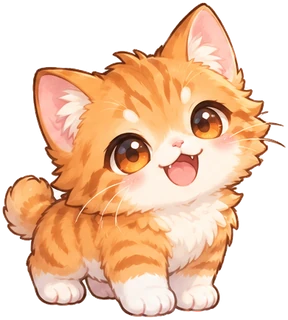
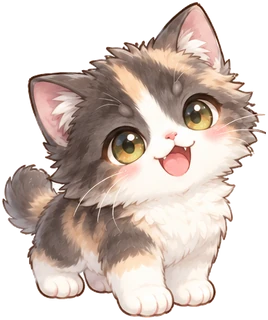
pet-guard: 天赋去掉平凡、闪光变成最高档（200次保底）；猫换成三花猫新图
- 天赋觉醒概率：出色40% 卓越35% 非凡18% 传奇5% 神话1.5% 闪光0.5%（×3.4，带闪光特效）
- 连续200次没出闪光必出闪光；闪光之后再出闪光升星；去掉原来单独的1.2%闪光抽取和×1.1
- 没觉醒过显示「未觉醒」×1；旧存档自动换新规则（旧神话2★以上→闪光，旧闪光萌宠→闪光档）
- 猫换成用户给的三花猫三阶段图，去掉旧橘猫的成年序列帧；导入工具加 cutX 修正（粘在一起的角色按列切开）

Claude-Session: https://claude.ai/code/session_011ha1JVmkv38irfqamNDMVV

diff --git a/pet-guard/src/hud.js b/pet-guard/src/hud.js
@@ -345,14 +345,14 @@ const PAGES = [
     });
   } },
   { id: 'gift', title: '礼物', draw(r, x, l, t, w) {
-    const rows = [['小心心', '投喂零食：经验+50%、亲密+2'], ['鲜花', '种花回血 + 叫来小伙伴、放大招'], ['加油鸭', '天赋觉醒：洗天赋，有机会闪光'], ['爱你哟', '爱心派对：全队攻击+30%、爱心雨'], ['墨镜', '酷酷墨镜：戴墨镜、攻击+30%'], ['礼花筒', '庆典：装备掉落×2 十分钟'], ['跑车', '梦幻甜品车：全场吃甜点、梦幻装扮'], ['任意礼物', '自动守护：每1抖币12秒']];
+    const rows = [['小心心', '投喂零食：经验+50%、亲密+2'], ['鲜花', '种花回血 + 叫来小伙伴、放大招'], ['加油鸭', '天赋觉醒：洗天赋，最高「闪光」'], ['爱你哟', '爱心派对：全队攻击+30%、爱心雨'], ['墨镜', '酷酷墨镜：戴墨镜、攻击+30%'], ['礼花筒', '庆典：装备掉落×2 十分钟'], ['跑车', '梦幻甜品车：全场吃甜点、梦幻装扮'], ['任意礼物', '自动守护：每1抖币12秒']];
     rows.forEach(([a, b], i) => { const y = t + 18 + i * 26; text(x, a, l + 14, y, 13, C.pink); text(x, b, l + 86, y, 13, C.ink, 'left', 'normal'); });
   } },
   { id: 'grow', title: '养成', draw(r, x, l, t, w) {
     text(x, `长大：幼崽 → Lv${FORMS[1].lv} 少年 → Lv${FORMS[2].lv} 成年`, l + 14, t + 18, 13, C.ink, 'left', 'normal');
     text(x, '天赋（加油鸭觉醒，取最好）：', l + 14, t + 46, 13, C.ink, 'left', 'normal');
-    TALENT.tiers.forEach((tt, i) => { text(x, `${tt.name}×${tt.mul}`, l + 14 + (i % 3) * 108, t + 70 + Math.floor(i / 3) * 22, 13, tt.color === '#e8edf5' ? '#8a8a9a' : tt.color); });
-    text(x, '神话之后还能升星 · 觉醒有机会变「闪光」异色', l + 14, t + 128, 12, C.mute, 'left', 'normal');
+    TALENT.tiers.filter(tt => tt.w > 0).forEach((tt, i) => { text(x, `${tt.name}×${tt.mul} ${tt.w}%`, l + 14 + (i % 3) * 108, t + 70 + Math.floor(i / 3) * 22, 13, tt.color); });
+    text(x, `最高「闪光」带闪光特效，${TALENT.pity}次保底 · 再出闪光还能升星`, l + 14, t + 128, 12, C.mute, 'left', 'normal');
     text(x, '亲密度：摸摸、投喂涨，每一级全属性+2%', l + 14, t + 154, 13, C.ink, 'left', 'normal');
     text(x, '小精灵：净化坏心情有机会收服，图鉴每种+1%', l + 14, t + 180, 13, C.ink, 'left', 'normal');
   } },
@@ -560,7 +560,7 @@ function drawCards(r, x, dt) {
   panel(x, l, t, w, h, 0.98);
   const form = FORMS.findLastIndex(fm => (f.level || 1) >= fm.lv);
   x.fillStyle = '#fff0f5'; rr(x, l + 10, t + 10, 120, 150, 12); x.fill();
-  const tal = f.star > 0 ? 5 : f.talent || 0;
+  const tal = f.star > 0 ? TALENT.tiers.length - 1 : f.talent || 0;
   if (tal >= 3) { x.save(); x.globalAlpha *= 0.45; x.fillStyle = TALENT.tiers[tal].color; x.beginPath(); x.arc(l + 70, t + 92, 52, 0, TAU); x.fill(); x.restore(); }
   const pa = r.assets.get(`pet:${f.sp}:${form}`);
   if (f.shiny) shinyIconBack(r, x, l + 70, t + 98, 110);
@@ -650,7 +650,7 @@ function drawPopups(r, x, dt) {
   if (ga) { x.save(); x.globalCompositeOperation = 'lighter'; x.globalAlpha *= 0.8; x.translate(cx, cy + 70); x.rotate(p.t * 0.8); x.scale(1, 0.5); const s2 = 300 / Math.max(ga.w, ga.h); x.drawImage(ga.img, -ga.w * s2 / 2, -ga.h * s2 / 2, ga.w * s2, ga.h * s2); x.restore(); }
   if (p.kind === 'awaken') {
     const T = TALENT.tiers, roll = p.t < 1.6;
-    const shown = roll ? Math.floor(p.t * 14) % T.length : p.best;
+    const shown = roll ? 1 + Math.floor(p.t * 14) % (T.length - 1) : p.best;
     const col = T[shown].color;
     x.save(); x.translate(cx, cy); x.globalCompositeOperation = 'lighter';
     for (let i = 0; i < 12; i++) { x.rotate(TAU / 12 + dt * 0); x.fillStyle = col; x.globalAlpha = a * 0.18; x.beginPath(); x.moveTo(0, 0); x.lineTo(-18, -230); x.lineTo(18, -230); x.closePath(); x.fill(); }
@@ -663,7 +663,7 @@ function drawPopups(r, x, dt) {
     if (!roll) {
       text(x, p.up ? `全属性 ×${p.mulFrom} → ×${p.mulTo}` : `这次是${T[p.best].name}，没超过现在的，下次一定！`, cx, cy + 136, 16, '#fff', 'center');
       if (p.shinyNew) outlined(x, '✦ 闪光了！✦', cx, cy + 172, 30, '#ffe36b', '#8a4a00', 'center', ROUND_FONT, 7);
-      else if (p.pity > 0) text(x, `离保底神话还差 ${TALENT.pity - p.pity} 次`, cx, cy + 166, 13, '#fff', 'center', 'normal');
+      else if (p.pity > 0) text(x, `离保底闪光还差 ${TALENT.pity - p.pity} 次`, cx, cy + 166, 13, '#fff', 'center', 'normal');
     }
   }
   x.restore();

diff --git a/pet-guard/src/config.js b/pet-guard/src/config.js
@@ -69,13 +69,13 @@ export const PET = {
 
 // ───────── 八种萌宠 ─────────
 // role：front 前排、melee 近战、ranged 远程、back 后排治疗
-// 数值是 1 级、无装备、天赋「平凡」时的基础值
+// 数值是 1 级、无装备、还没觉醒天赋时的基础值
 export const SPECIES = {
   shiba:   { name: '柴柴', kind: '柴犬', color: '#f2a33a', role: 'front',  hp: 340, atk: 8,    armor: 0.35, interval: 0.95, range: 0,   food: 'bone',
     skill: { name: '汪汪吼', cd: 9 }, ult: { name: '超级抱抱' }, words: ['柴犬', '柴柴', '狗', '小狗', '狗狗', '修勾', '汪汪'],
     desc: '前排守护：汪汪吼把坏心情都吸过来、给自己加护盾；超级抱抱全队减伤、把身边一圈都抱晕', passive: '皮实：受到伤害降低' },
-  cat:     { name: '橘子', kind: '橘猫', color: '#ff9b4a', role: 'melee',  hp: 200, atk: 12.5, armor: 0.15, interval: 0.82, range: 0,   food: 'fish', crit: 0.15, critDmg: 0.3,
-    skill: { name: '猫猫连环拳', cd: 9 }, ult: { name: '九命猫猫拳' }, words: ['猫', '猫猫', '橘猫', '橘子', '喵', '小猫', '咪咪'],
+  cat:     { name: '橘子', kind: '三花猫', color: '#ff9b4a', role: 'melee',  hp: 200, atk: 12.5, armor: 0.15, interval: 0.82, range: 0,   food: 'fish', crit: 0.15, critDmg: 0.3,
+    skill: { name: '猫猫连环拳', cd: 9 }, ult: { name: '九命猫猫拳' }, words: ['猫', '猫猫', '三花', '三花猫', '橘猫', '橘子', '喵', '小猫', '咪咪'],
     desc: '近战连击：专挑精英和首领；连环拳冲进去一顿乱挠；九命猫猫拳满场飞扑', passive: '猫猫拳：暴击伤害提升' },
   bunny:   { name: '棉花', kind: '小白兔', color: '#ff9fc4', role: 'back',  hp: 145, atk: 7,    armor: 0.1,  interval: 1.0,  range: 400, food: 'carrot', heal: 1,
     skill: { name: '胡萝卜便当', cd: 8 }, ult: { name: '棉花糖雨' }, words: ['兔', '兔子', '小兔', '白兔', '棉花', '兔兔', '小白兔'],
@@ -140,19 +140,20 @@ export const PASSIVE = {
 };
 
 // ───────── 天赋（礼物「加油鸭」觉醒一次，随机一档、取最好）：每只萌宠各自的天赋，全属性倍率 ─────────
+// w 是每次觉醒抽到这一档的概率（%）。最高档「闪光」：萌宠身上带闪光特效（原图不改色，见 src/render.js 的 shinyBack / shinyFront）
 export const TALENT = {
   tiers: [
-    { name: '平凡', mul: 1,   w: 40,  color: '#e8edf5' },
-    { name: '出色', mul: 1.4, w: 35,  color: '#4fa3ff' },
-    { name: '卓越', mul: 1.8, w: 18,  color: '#b066ff' },
-    { name: '非凡', mul: 2.2, w: 5,   color: '#ff8a2a' },
-    { name: '传奇', mul: 2.6, w: 1.5, color: '#ffd23a' },
-    { name: '神话', mul: 3,   w: 0.5, color: '#ff4f9a' },
+    { name: '未觉醒', mul: 1,   w: 0,   color: '#e8edf5' },   // 还没觉醒过；觉醒抽不到这一档
+    { name: '出色',   mul: 1.4, w: 40,  color: '#4fa3ff' },
+    { name: '卓越',   mul: 1.8, w: 35,  color: '#b066ff' },
+    { name: '非凡',   mul: 2.2, w: 18,  color: '#ff8a2a' },
+    { name: '传奇',   mul: 2.6, w: 5,   color: '#ffd23a' },
+    { name: '神话',   mul: 3,   w: 1.5, color: '#ff4f9a' },
+    { name: '闪光',   mul: 3.4, w: 0.5, color: '#29c5f6' },
   ],
-  maxPerGift: 99, pity: 200,
-  star: { base: 2, subK: 0.5 },   // 神话之后升星：N★ = ×(N+2)，两星之间最好那一档记「副天赋」
-  // 闪光：每次觉醒有一点机会变成异色闪光萌宠（永久，全属性 ×1.1，画面上换色 + 一直闪星星）
-  shiny: { chance: 0.012, pity: 150, mul: 1.1 },   // 闪光不换颜色，只加特效（src/render.js 的 shinyBack / shinyFront）
+  maxPerGift: 99,
+  pity: 200,                      // 连续 200 次没出闪光，第 200 次必出闪光
+  star: { step: 1, subK: 0.5 },   // 闪光之后再出闪光升星：每多一星全属性倍率 +1；两星之间最好那一档记「副天赋」
 };
 
 // ───────── 亲密度：摸摸、投喂涨；每过一档全属性 +2% ─────────

diff --git a/pet-guard/tests/game.test.js b/pet-guard/tests/game.test.js
@@ -3,7 +3,7 @@ import assert from 'node:assert/strict';
 import { Game, parseCommand } from '../src/game.js';
 import { Save, cleanNick } from '../src/save.js';
 import { parseSpecies, parseSkill } from '../src/pets.js';
-import { applyItem, makeItem, talentMul, petStats, combatPower } from '../src/gear.js';
+import { applyItem, makeItem, talentMul, petStats, combatPower, rollTalent, starOf } from '../src/gear.js';
 import { awaken } from '../src/gifts.js';
 import { giftKind } from '../src/gifts.js';
 import { TALENT, FORMS, TREE } from '../src/config.js';
@@ -77,17 +77,36 @@ test('长大：跨过等级门槛发「长大」事件', () => {
   assert.equal(f.h, FORMS[1].h);
 });
 
-test('天赋觉醒：取最好、200次保底神话、闪光保底', () => {
+test('天赋觉醒：没有平凡、取最好、200次保底闪光（最高档，带闪光特效）', () => {
   const { g, save } = setup(3);
   g.chat({ id: 'u4', name: '土豪' }, '羊');
   const f = g.pets.get('u4');
-  const r = awaken(g, f, 199);
+  const top = TALENT.tiers.length - 1;
+  assert.equal(TALENT.tiers[top].name, '闪光');
+  assert.equal(Math.round(TALENT.tiers.reduce((a, t) => a + t.w, 0) * 10) / 10, 100, '概率加起来 100%');
+  const r1 = awaken(g, f, 1);
+  assert.ok(r1.rolls[0] >= 1, '觉醒一次至少出色');
   const d = save.data.players.u4.pets.sheep;
-  assert.ok(d.talent >= Math.max(...r.rolls.filter(x => x < 5)) || d.talent === 5);
-  assert.ok(d.shiny, `150次内必闪光（shinyPity=${d.shinyPity}）`);
-  if (d.talent < 5) { awaken(g, f, 1); assert.ok(d.talent === 5 || d.star >= 1); }
-  assert.ok(talentMul(d) >= 1);
+  if (d.talent < top) { awaken(g, f, 198); assert.ok(d.talent === top, `200次内必出闪光（${d.talent}）`); }
+  assert.ok(d.shiny && f.shiny, '闪光档带闪光特效');
+  assert.equal(talentMul(d), TALENT.tiers[top].mul + (starOf(d) - 1) * TALENT.star.step + (d.sub ? (TALENT.tiers[d.sub].mul - 1) * TALENT.star.subK : 0));
   assert.ok(petStats(f).maxHp > 340);
+  // 1万次觉醒的分布接近配置
+  let s2 = 7; const rnd = () => ((s2 = (s2 * 1664525 + 1013904223) >>> 0) / 4294967296);
+  const cnt = TALENT.tiers.map(() => 0); for (let i = 0; i < 20000; i++) cnt[rollTalent(rnd)]++;
+  assert.equal(cnt[0], 0, '抽不到未觉醒');
+  assert.ok(Math.abs(cnt[1] / 200 - 40) < 2 && Math.abs(cnt[top] / 200 - 0.5) < 0.3, cnt.join(','));
+});
+
+test('旧存档天赋换成新规则：旧神话2★→闪光1★、旧闪光萌宠→闪光档', () => {
+  const old = { version: 1, players: { o1: { name: '老玩家', pets: {
+    shiba: { lv: 30, talent: 5, star: 3 }, cat: { lv: 10, talent: 2, shiny: true }, bunny: { lv: 5, talent: 5, star: 1 }, panda: { lv: 5, talent: 0 } } } } };
+  const v = Save.validate(old).players.o1.pets;
+  assert.deepEqual([v.shiba.talent, v.shiba.star, v.shiba.shiny], [6, 2, true]);
+  assert.deepEqual([v.cat.talent, v.cat.shiny], [6, true]);
+  assert.deepEqual([v.bunny.talent, v.bunny.star, v.bunny.shiny], [5, 0, false]);
+  assert.equal(v.panda.talent, 0);
+  assert.equal(Save.validate({ version: 1, players: { o1: { name: 'x', pets: v } } }).players.o1.pets.shiba.star, 2, '新存档再读不会再变');
 });
 
 test('装备：更高品质穿上、同品质强化、低品质变碎片', () => {

diff --git a/pet-guard/src/gear.js b/pet-guard/src/gear.js
@@ -80,12 +80,12 @@ export function talentMul(o) {
   const st = starOf(o);
   if (!st) return tierMul(o?.talent);
   const sub = o.sub | 0;
-  return Math.round((st + TALENT.star.base + (sub > 0 ? (tierMul(sub) - 1) * TALENT.star.subK : 0)) * 100) / 100;
+  return Math.round((tierMul(TALENT.tiers.length - 1) + (st - 1) * TALENT.star.step + (sub > 0 ? (tierMul(sub) - 1) * TALENT.star.subK : 0)) * 100) / 100;
 }
 export function talentParts(o) {
   const T = TALENT.tiers, st = starOf(o), sub = o?.sub | 0, t = Math.max(0, Math.min(T.length - 1, o?.talent | 0));
-  if (!st) return [{ text: T[t].name, color: T[t].color }];
-  const out = [{ text: `${T[T.length - 1].name}${st}★`, color: T[T.length - 1].color }];
+  if (!st) return [{ text: T[t].name, color: t === 0 ? '#a3abb8' : T[t].color }];   // 未觉醒的浅灰太淡，文字用深一点的灰
+  const out = [{ text: st > 1 ? `${T[T.length - 1].name}${st}★` : T[T.length - 1].name, color: T[T.length - 1].color }];
   if (sub > 0) out.push({ text: `·副:${T[sub].name}`, color: T[sub].color });
   return out;
 }
@@ -93,11 +93,11 @@ export function talentText(o) { return talentParts(o).map(p => p.text).join('');
 export function rollTalent(random) {
   const T = TALENT.tiers, total = T.reduce((a, t) => a + t.w, 0);
   let r = random() * total;
-  for (let i = 0; i < T.length; i++) { r -= T[i].w; if (r <= 0) return i; }
-  return 0;
+  for (let i = 0; i < T.length; i++) { if (!T[i].w) continue; r -= T[i].w; if (r <= 0) return i; }
+  return T.findIndex(t => t.w > 0);
 }
-// 天赋档位 1–6（被动用）；神话星级再往上加
-export function talentLevel(o) { return Math.min(6, (o?.talent | 0) + 1) + starOf(o) * 0.5; }
+// 天赋档位 1–7（被动用）；闪光升星再往上加
+export function talentLevel(o) { return Math.min(TALENT.tiers.length, (o?.talent | 0) + 1) + starOf(o) * 0.5; }
 
 // ───────── 亲密度 ─────────
 export function bondLevel(bond) { let n = 0; for (const s of BOND.steps) if ((bond || 0) >= s) n++; return n; }
@@ -109,7 +109,7 @@ export function petStats(f) {
   const gear = f.gear || {};
   const g = gearBonus(gear), cap = GEAR.caps;
   const lvMul = 1 + LEVEL.grow * Math.max(0, (f.level || 1) - 1);
-  const tm = talentMul(f) * (f.shiny ? TALENT.shiny.mul : 1) * (1 + BOND.per * bondLevel(f.bond));
+  const tm = talentMul(f) * (1 + BOND.per * bondLevel(f.bond));
   const sk = SPRITES.perKind * (f.spriteKinds || 0), SF = SPRITES.follow[f.follow] || {};   // 小精灵：图鉴每种+1%，跟着的那只另加
   const tl = talentLevel(f), P = PASSIVE[f.sp] || {};
   const set = setBonus(gear);
@@ -133,9 +133,9 @@ export function petStats(f) {
     hatTier: gear.hat ? gear.hat.tier : -1,
   };
 }
-// 战力：等级 + 装备 + 天赋 + 闪光 + 亲密
+// 战力：等级 + 装备 + 天赋 + 亲密
 export function combatPower(f) {
-  return Math.round(((f.level || 1) * 50 + setScore(f.gear) * 120) * talentMul(f) * (f.shiny ? TALENT.shiny.mul : 1) * (1 + BOND.per * bondLevel(f.bond)));
+  return Math.round(((f.level || 1) * 50 + setScore(f.gear) * 120) * talentMul(f) * (1 + BOND.per * bondLevel(f.bond)));
 }
 // 成长分 E：等级 + 装备（临时BUFF不算）
 export function growthE(f) {

diff --git a/pet-guard/src/save.js b/pet-guard/src/save.js
@@ -14,7 +14,7 @@ export function weekKeyOf(ms) {
 export function dayKeyOf(ms) { const d = new Date(ms); return `${d.getFullYear()}-${String(d.getMonth() + 1).padStart(2, '0')}-${String(d.getDate()).padStart(2, '0')}`; }
 
 export function newPet(level = 1) {
-  return { lv: Math.max(1, level | 0), xp: 0, nick: '', talent: 0, talentPity: 0, star: 0, sub: 0, shiny: false, shinyPity: 0, gear: {}, bond: 0 };
+  return { lv: Math.max(1, level | 0), xp: 0, nick: '', talent: 0, talentPity: 0, star: 0, sub: 0, shiny: false, tv: 2, gear: {}, bond: 0 };
 }
 export function newProfile(uid, clearNo = 0) {
   return { uid, name: '小可爱', avatar: '', cur: null, pets: {}, merit: 0, weekMerit: 0, coins: 0, weekCoins: 0, games: 0, clears: 0, seen: 0,
@@ -30,6 +30,16 @@ export function petData(p, sp) {
   return all[sp];
 }
 
+// 旧存档的天赋换成新规则（没有 tv 标记的是旧的）：
+// 旧：平凡/出色/卓越/非凡/传奇/神话，神话之后升星，闪光是另外 1.2% 抽的；新：最高档是「闪光」，闪光之后升星
+// 旧神话2★及以上 → 闪光（星数-1）；旧的闪光萌宠 → 闪光档；旧神话1★ → 神话
+function migrateTalent(d) {
+  const top = TALENT.tiers.length - 1;
+  if ((d.tv | 0) >= 2) { const t = clampInt(d.talent, 0, top, 0); return { talent: t, star: t === top ? clampInt(d.star, 0, 1e6, 0) : 0, shiny: t === top || !!d.shiny }; }
+  const t = clampInt(d.talent, 0, 5, 0), s = clampInt(d.star, 0, 1e6, 0);
+  if (d.shiny || (t === 5 && s >= 2)) return { talent: top, star: t === 5 && s >= 2 ? s - 1 : 0, shiny: true };
+  return { talent: t, star: 0, shiny: false };
+}
 export class Save {
   constructor({ storage = null, now = () => Date.now() } = {}) {
     this.storage = storage;
@@ -57,11 +67,12 @@ export class Save {
       for (const sp of SPECIES_IDS) {
         const d = p.pets?.[sp];
         if (!d || typeof d !== 'object') continue;
+        const tl = migrateTalent(d);
         pets[sp] = {
           lv: clampInt(d.lv, 1, 1e6, 1), xp: clampInt(d.xp, 0, 1e12, 0), nick: cleanNick(d.nick),
-          talent: clampInt(d.talent, 0, TALENT.tiers.length - 1, 0), talentPity: clampInt(d.talentPity, 0, 1e6, 0),
-          star: clampInt(d.star, 0, 1e6, 0), sub: clampInt(d.sub, 0, TALENT.tiers.length - 2, 0),
-          shiny: !!d.shiny, shinyPity: clampInt(d.shinyPity, 0, 1e6, 0), gear: validGear(d.gear), bond: clampInt(d.bond, 0, 1e9, 0),
+          talent: tl.talent, talentPity: clampInt(d.talentPity, 0, 1e6, 0),
+          star: tl.star, sub: clampInt(d.sub, 0, TALENT.tiers.length - 2, 0),
+          shiny: tl.shiny, tv: 2, gear: validGear(d.gear), bond: clampInt(d.bond, 0, 1e9, 0),
         };
       }
       players[uid] = {

diff --git a/pet-guard/src/gifts.js b/pet-guard/src/gifts.js
@@ -97,10 +97,10 @@ export function applyGift(game, f, kind, amount) {
   saveBuffs(game, f);
 }
 
-// ───────── 天赋觉醒：重洗当前萌宠的天赋，随机出一档，取最好；有机会变闪光 ─────────
+// ───────── 天赋觉醒：重洗当前萌宠的天赋，随机出一档，取最好；最高档「闪光」（200 次保底）─────────
 export function awaken(game, f, times = 1) {
   const T = TALENT.tiers, top = T.length - 1;
-  const d = petRecord(game, f) || (f.talentMem ||= { talent: f.talent || 0, talentPity: 0, star: f.star || 0, sub: f.sub || 0, shiny: !!f.shiny, shinyPity: 0 });
+  const d = petRecord(game, f) || (f.talentMem ||= { talent: f.talent || 0, talentPity: 0, star: f.star || 0, sub: f.sub || 0, shiny: !!f.shiny });
   const from = d.talent || 0, fromStar = starOf(d), fromSub = fromStar ? d.sub || 0 : 0, mulFrom = talentMul(d);
   let star = fromStar, sub = fromSub, tal = from, pityHit = false, shinyNew = false;
   const rolls = [];
@@ -113,11 +113,8 @@ export function awaken(game, f, times = 1) {
     if (r === top) { if (tal === top) star++; else star = Math.max(star, 1); tal = top; sub = 0; }
     else if (tal === top) { if (r > sub) sub = r; }
     else if (r > tal) tal = r;
-    if (!d.shiny) {
-      d.shinyPity = (d.shinyPity || 0) + 1;
-      if (game.random() < TALENT.shiny.chance || d.shinyPity >= TALENT.shiny.pity) { d.shiny = true; shinyNew = true; }
-    }
   }
+  if (tal === top && !d.shiny) { d.shiny = true; shinyNew = true; }
   const best = Math.max(...rolls);
   d.talent = tal; d.star = star; d.sub = sub;
   f.talent = tal; f.star = star; f.sub = sub; f.shiny = !!d.shiny;
@@ -125,7 +122,7 @@ export function awaken(game, f, times = 1) {
   refreshStats(f);
   const mulTo = talentMul(d);
   game.emit('awaken', { uid: f.uid, name: f.name, nick: f.nick, sp: f.sp, from, to: tal, best, rolls, up: mulTo > mulFrom, fromStar, star, fromSub, sub, mulFrom, mulTo, pityHit, pity: d.talentPity || 0, shinyNew, shiny: f.shiny, level: f.level });
-  if (shinyNew) game.emit('banner', { uid: f.uid, name: f.name, text: `✦ 闪光了！${who(f)}变成了异色闪光萌宠，全属性×1.1 ✦`, tier: 5 });
+  if (shinyNew) game.emit('banner', { uid: f.uid, name: f.name, text: `✦ 闪光了！${who(f)}觉醒出最高天赋「闪光」，全属性×${T[top].mul} ✦`, tier: 5 });
   return { from, to: tal, rolls, star, sub, shinyNew };
 }
 

diff --git a/pet-guard/src/render.js b/pet-guard/src/render.js
@@ -446,7 +446,7 @@ export class Renderer {
     let ox = 0, oy = 0, sx = 1, sy = 1, rot = 0, alpha = 1;
     const a = f.act;
     // 光环（天赋）
-    const tal = f.star > 0 ? 5 : f.talent || 0;
+    const tal = f.star > 0 ? TALENT.tiers.length - 1 : f.talent || 0;
     if (!f.egg && tal >= 3 && !f.mini) this.aura(x, f, tal, t);
     if (f.shiny && !f.egg && f.alive) this.shinyBack(x, f, t, h);
     if (f.auto > 0 && !f.npc) { x.save(); x.globalAlpha = 0.5 + 0.2 * Math.sin(t * 4); x.strokeStyle = '#ff9fd0'; x.lineWidth = 2; x.beginPath(); x.ellipse(f.x, f.y, h * 0.42, h * 0.14, 0, 0, TAU); x.stroke(); x.restore(); }
@@ -564,7 +564,7 @@ export class Renderer {
     return true;
   }
   aura(x, f, tal, t) {
-    const c = TALENT.tiers[Math.min(5, tal)].color, h = f.h || 66, st = Math.min(5, f.star || 0);
+    const c = TALENT.tiers[Math.min(TALENT.tiers.length - 1, tal)].color, h = f.h || 66, st = Math.min(5, f.star || 0);
     x.save();
     x.globalCompositeOperation = 'lighter';
     x.globalAlpha = 0.35 + 0.15 * Math.sin(t * 3);
@@ -759,14 +759,14 @@ export class Renderer {
       if (home && g.homeTiles?.includes(f.uid)) continue;   // 在家：名字写在菜地上
       const h = (f.egg ? 52 : f.h || 66) * (home ? 0.78 : 1), top = f.y - h - 8;
       const nm = f.nick || f.name, focus = this.hoverUid === f.uid || (f.labelUntil || 0) > g.clock;
-      const tal = f.star > 0 ? 5 : f.talent || 0;
+      const tal = f.star > 0 ? TALENT.tiers.length - 1 : f.talent || 0;
       x.font = `bold 13px ${FONT}`;
       const lv = `Lv${f.level || 1}`, lw = x.measureText(lv).width + 8;
       x.font = `bold 14px ${FONT}`;
       const nw = Math.min(110, x.measureText(nm).width);
       const total = lw + 4 + nw, left = f.x - total / 2;
       // 等级小胶囊
-      x.fillStyle = f.npc ? 'rgba(120,120,140,.8)' : TALENT.tiers[Math.min(5, tal)].color; rr(x, left, top - 13, lw, 16, 8); x.fill();
+      x.fillStyle = f.npc ? 'rgba(120,120,140,.8)' : TALENT.tiers[Math.min(TALENT.tiers.length - 1, tal)].color; rr(x, left, top - 13, lw, 16, 8); x.fill();
       x.fillStyle = tal >= 1 && tal <= 4 && !f.npc ? '#fff' : '#4a3540'; x.font = `bold 12px ${FONT}`; x.fillText(lv, left + lw / 2, top);
       x.font = `bold 14px ${FONT}`; x.strokeStyle = 'rgba(70,40,50,.85)'; x.lineWidth = 4; x.fillStyle = f.npc ? '#d6d6e0' : f.shiny ? '#ffe36b' : '#fff';
       x.textAlign = 'left';

diff --git a/pet-guard/tools/import_art.py b/pet-guard/tools/import_art.py
@@ -7,7 +7,8 @@
 原图按清单里的文件名命名（pet_shiba.png、foe_dust.jpg、bg_spring.png……；GPT 下载下来的名字后面多了
 「(1)」之类也认）。art/fix.json 可以给单张图加修正：
   { "pet_shiba": { "flip": true, "bgTol": 30, "order": [2,1,0] } }
-  flip：左右翻转（萌宠要朝右）；bgTol：白底容差（有灰色地面阴影就调大）；order：切出来的顺序重排
+  flip：左右翻转（萌宠要朝右）；bgTol：白底容差（有灰色地面阴影就调大）；order：切出来的顺序重排；
+  cutX：[389] 两个角色粘在一起时，在原图这一列（像素）切开
 """
 import json, os, re, sys, shutil, argparse
 import numpy as np
@@ -230,6 +231,7 @@ def process(path, fid, spec, fix, manifest, preview):
     else:
         rgb = np.asarray(im.convert('RGB'))
         rgba, mask = (matte_black(rgb) if spec['bg'] == 'black' else matte_white(rgb, fix.get('bgTol', 8), fix.get('holes', 0)))
+    for cx in fix.get('cutX', []): mask[:, max(0, cx - 2):cx + 3] = False   # 两个角色粘在一起（胡子、尾巴碰到了）：在这一列切开
     src = Image.fromarray(rgba, 'RGBA')
     if fix.get('flipAll'): src = src.transpose(Image.FLIP_LEFT_RIGHT); mask = mask[:, ::-1]
     rows, cols = spec['grid']

diff --git a/pet-guard/README.md b/pet-guard/README.md
@@ -91,7 +91,7 @@
 | 萌宠 | 定位 | 普攻 | 技能（自动） | 大招（发「大招」） |
 |---|---|---|---|---|
 | 柴柴 · 柴犬 | 前排守护 | 爪爪拍 | 汪汪吼：把身边坏心情都吸过来、给自己加护盾 | 超级抱抱：全队减伤30%，身边一圈抱晕 |
-| 橘子 · 橘猫 | 近战连击 | 猫猫拳，专挑精英首领 | 猫猫连环拳：冲进去一顿乱挠 | 九命猫猫拳：满场飞扑六下 + 终结一击 |
+| 橘子 · 三花猫 | 近战连击 | 猫猫拳，专挑精英首领 | 猫猫连环拳：冲进去一顿乱挠 | 九命猫猫拳：满场飞扑六下 + 终结一击 |
 | 棉花 · 小白兔 | 治疗 | 爱心弹，能打能奶 | 胡萝卜便当：给最累的三只回血 + 持续回血 | 棉花糖雨：叫醒所有打盹的伙伴、全队回血 |
 | 滚滚 · 熊猫 | 前排控场 | 熊掌拍，击退 | 翻滚冲撞：滚过去一路撞晕 | 竹林结界：坏心情走不动、伙伴受伤减少 |
 | 狐狐 · 小狐狸 | 远程法术 | 狐火，穿透、灼烧 | 狐火连珠：扇形五发 | 九尾狐火：敌群里烧一大片 |
@@ -111,8 +111,15 @@
 ## 养成
 
 - **长大**：幼崽 → Lv8 少年 → Lv20 成年，换形态时萌宠就地发光、变大一下，顶部横幅播报（不弹窗挡战场）。等级不封顶，每级攻击体力+2%。新领养的萌宠从「自己最高那只的一半等级」开始。
-- **天赋**（礼物加油鸭「天赋觉醒」，随机一档、取最好，越往后越难出）：平凡 ×1 → 出色 ×1.4 → 卓越 ×1.8 → 非凡 ×2.2 → 传奇 ×2.6 → 神话 ×3；200次必出神话；神话之后继续升星（同群侠伏魔录的武神骨）。非凡以上脚下有光环，传奇加金星，神话彩虹光环。
-- **闪光**：每次觉醒有一点机会（150次保底）变成闪光萌宠，永久带闪光特效，全属性×1.1。闪光**不改原图颜色**，只加特效：背后一圈慢慢转的马卡龙彩虹柔光、脚下转圈的小星星、身上一闪一闪的十字星芒、每隔几秒从身上扫过一道彩虹亮光，偶尔飘起小光点；头像和卡片上也有柔光和星芒。专用贴图 `shiny_fx`（可选，没有就用程序画的）。
+- **天赋**（礼物加油鸭「天赋觉醒」，1 个 = 觉醒 1 次，随机一档、取最好，不会变差）：
+
+  | 档位 | 出色 | 卓越 | 非凡 | 传奇 | 神话 | 闪光 |
+  |---|---|---|---|---|---|---|
+  | 每次概率 | 40% | 35% | 18% | 5% | 1.5% | 0.5% |
+  | 全属性 | ×1.4 | ×1.8 | ×2.2 | ×2.6 | ×3 | ×3.4 |
+
+  没觉醒过的萌宠是「未觉醒」×1，觉醒一次至少出色。**连续 200 次没出闪光，第 200 次必出闪光**（每只萌宠单独算）。闪光之后再出闪光继续升星（每星 +1 倍率）。非凡以上脚下有光环，传奇加金星，神话彩虹光环。
+- **闪光**（天赋最高档）：萌宠**不改原图颜色**，只加特效：背后一圈慢慢转的马卡龙彩虹柔光、脚下转圈的小星星、身上一闪一闪的十字星芒、每隔几秒从身上扫过一道彩虹亮光，偶尔飘起小光点；头像和卡片上也有柔光和星芒。专用贴图 `shiny_fx`（可选，没有就用程序画的）。旧存档自动换成新规则：旧神话2★及以上 → 闪光（星数-1），旧的闪光萌宠 → 闪光档，旧平凡 → 未觉醒。
 - **亲密度**：摸摸 +1、投喂 +2、签到 +2、心愿成真 +3；每过一档全属性 +2%（10档）。
 - **好朋友 / 小精灵**：见上面的新玩法表；萌宠卡上显示最好的朋友和跟着的小精灵（图鉴几种）。
 - **装扮**（每只萌宠自己一套）：头饰（攻击）、项圈（体力）、围巾（防御）、玩具（暴击），品质 普通 → 精良 → 稀有 → 史诗 → 传说 → 梦幻；**头饰真的戴在萌宠头上**，品质越高越华丽。同品质再掉强化+1，低品质变碎片（100个合成高一级）。四件都稀有：技能+30%、冷却-15%；四件都史诗：大招+40%、冷却-10秒。
@@ -124,7 +131,7 @@
 |---|---|
 | 小心心（1）· 投喂零食 | 经验+50% 30秒/个（时间叠加）、亲密度+2、立即出一招 |
 | 鲜花（10）· 呼朋唤友 | 在场上种花（每个1朵，一次最多3朵，花开回血、减速坏心情）；叫来同种的小伙伴2分钟（最多3只），立即放大招 |
-| 加油鸭（15）· 天赋觉醒 | 洗一次当前萌宠的天赋，有机会闪光 |
+| 加油鸭（15）· 天赋觉醒 | 洗一次当前萌宠的天赋，最高档「闪光」，200次保底 |
 | 爱你哟（52）· 爱心派对 | 全队攻击+30% 60秒；爱心雨5秒/个；自己掉落保底史诗60秒 |
 | 墨镜（99）· 酷酷墨镜 | 萌宠戴上墨镜，攻击+30%、自动发酷酷光波5分钟；掉落保底稀有 |
 | 礼花筒（199）· 庆典双倍 | 装备掉落×2 十分钟，保底传说 |

diff --git a/pet-guard/art/PROMPTS.md b/pet-guard/art/PROMPTS.md
@@ -21,12 +21,12 @@
 治愈系Q版手游美术，软萌圆润的造型，大头小身子，水汪汪的大眼睛，柔和明亮的马卡龙配色，精致的厚涂质感，干净清晰的深棕色描边（像贴纸一样），柔和的顶光，没有投影也没有地面，纯白色背景，每个角色都完整不被裁切，彼此之间留出明显空白、互不重叠，画面里不要出现任何文字、水印、边框和背景装饰。一张角色成长设定图：同一只柴犬的三个成长阶段，从左到右并排站成一排，一个比一个大。三只都是身体微微侧向右边的四分之三视角、脸看向观众。配色统一：橘黄色的背毛，奶白色的脸颊、胸口和肚皮，眉毛位置两颗小白点（豆豆眉），三角形小耳朵，卷成圆圈的尾巴。左：幼崽，圆滚滚像个小馒头，四条小短腿，耳朵软软的，懵懂可爱；中：少年，腿长了一些，耳朵竖起来，精神抖擞地摇着尾巴；右：成年，胸前一圈蓬松的白色围毛，站姿挺拔，勇敢可靠的笑容。三个阶段的配色、花纹、五官特征保持一致，一看就是同一只。画面比例 3:2（横版）。
 ```
 
-### 橘子 · 橘猫　`pet_cat`　3:2 横版 · 第一批
+### 橘子 · 三花猫　`pet_cat`　3:2 横版 · 第一批
 
 用途：近战连击：猫猫拳，专打精英
 
 ```
-治愈系Q版手游美术，软萌圆润的造型，大头小身子，水汪汪的大眼睛，柔和明亮的马卡龙配色，精致的厚涂质感，干净清晰的深棕色描边（像贴纸一样），柔和的顶光，没有投影也没有地面，纯白色背景，每个角色都完整不被裁切，彼此之间留出明显空白、互不重叠，画面里不要出现任何文字、水印、边框和背景装饰。一张角色成长设定图：同一只橘猫的三个成长阶段，从左到右并排站成一排，一个比一个大。三只都是身体微微侧向右边的四分之三视角、脸看向观众。配色统一：橘色底毛带深橘色虎斑条纹，四只白色小爪子像穿了白袜子，粉色肉垫，琥珀色的大眼睛。左：幼崽，毛茸茸的一小团，尾巴短短的；中：少年，抬起一只小肉垫爪子，调皮地眯眼笑；右：成年，蓬松的大尾巴，自信神气，抬起双爪摆出猫猫拳的架势。三个阶段的配色、花纹、五官特征保持一致，一看就是同一只。画面比例 3:2（横版）。
+治愈系Q版手游美术，软萌圆润的造型，大头小身子，水汪汪的大眼睛，柔和明亮的马卡龙配色，精致的厚涂质感，干净清晰的深棕色描边（像贴纸一样），柔和的顶光，没有投影也没有地面，纯白色背景，每个角色都完整不被裁切，彼此之间留出明显空白、互不重叠，画面里不要出现任何文字、水印、边框和背景装饰。一张角色成长设定图：同一只三花猫的三个成长阶段，从左到右并排站成一排，一个比一个大。三只都是身体微微侧向右边的四分之三视角、脸看向观众。配色统一：白色底毛上有一块块灰黑色和奶橘色的花斑（三花），胸口、肚皮和四只爪子是白色，粉色肉垫，黄绿色的大眼睛，毛蓬蓬的。左：幼崽，毛茸茸的一小团，尾巴短短的；中：少年，抬起一只小肉垫爪子，调皮地眯眼笑；右：成年，蓬松的大尾巴，自信神气，抬起双爪摆出猫猫拳的架势。三个阶段的配色、花纹、五官特征保持一致，一看就是同一只。画面比例 3:2（横版）。
 ```
 
 ### 棉花 · 小白兔　`pet_bunny`　3:2 横版 · 第一批
